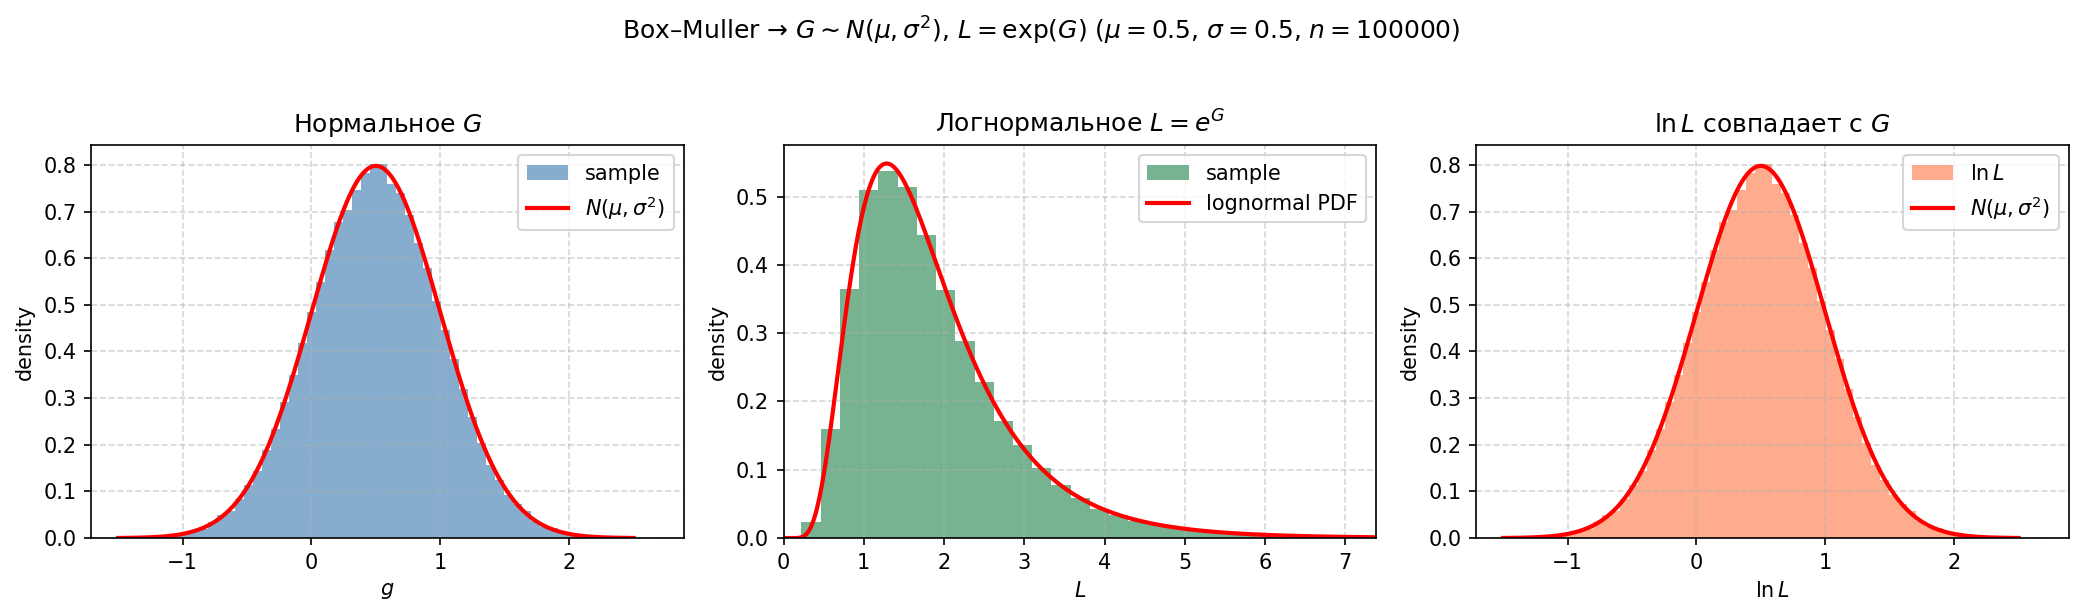
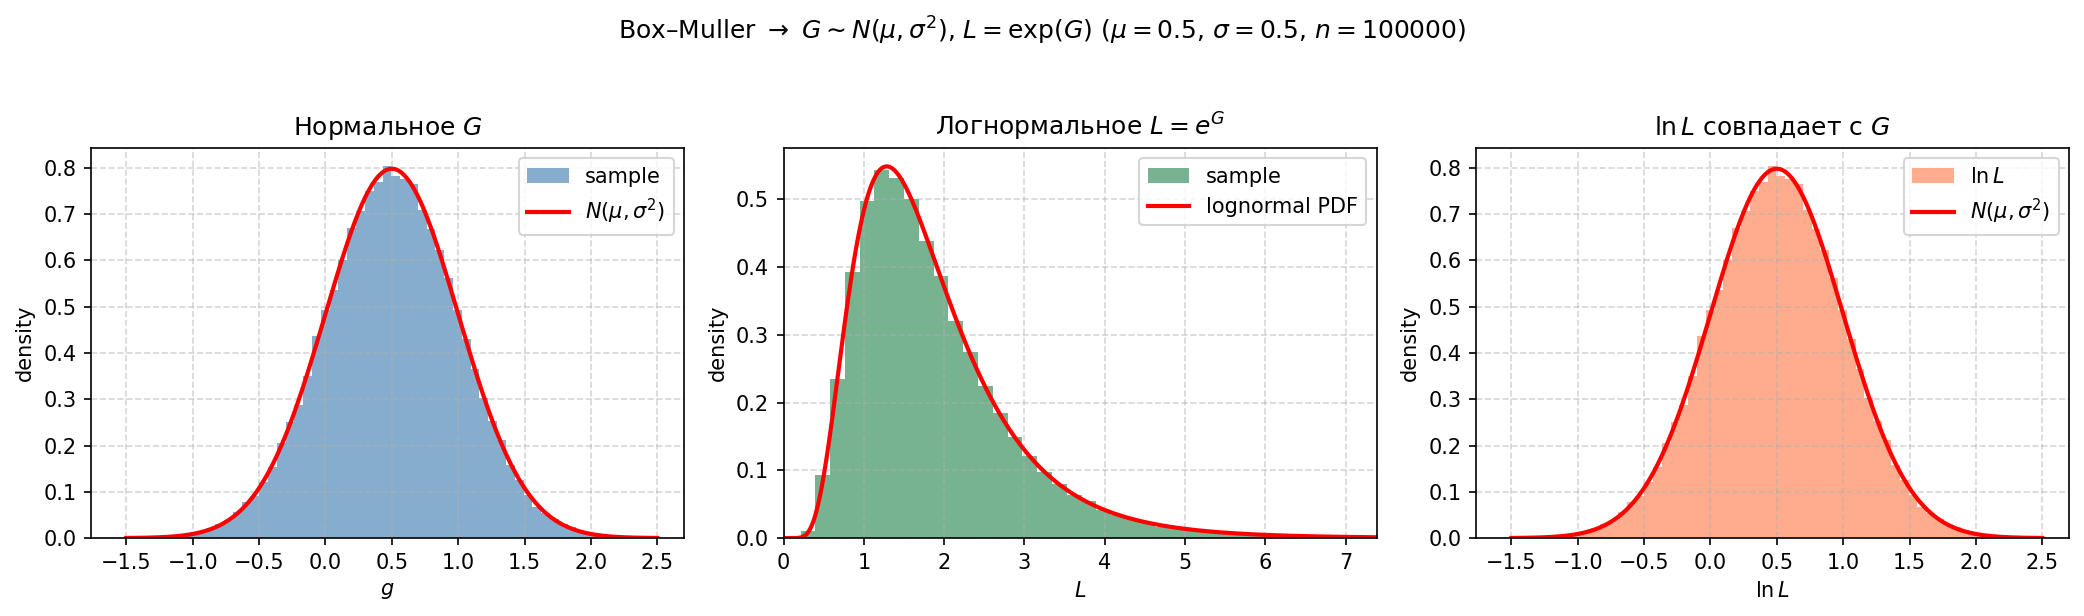
add logf

diff --git a/prac_hw/logf/test_logf.cpp b/prac_hw/logf/test_logf.cpp
@@ -1,0 +1,151 @@
+/*
+ * logf tests: vs std::log(double), errno/FE vs libm, ULP <= 4.
+ */
+
+#include <cerrno>
+#include <cfenv>
+#include <cmath>
+#include <cstdint>
+#include <cstdio>
+#include <limits>
+
+extern "C" float logf(float x);
+
+namespace {
+
+constexpr double MAX_ULP = 4.0;
+
+double ulp_error(float got, double ref) {
+    if (std::isnan(static_cast<double>(got)) && std::isnan(ref)) {
+        return 0.0;
+    }
+    const float rf = static_cast<float>(ref);
+    const float n =
+        std::nextafterf(rf, rf + 1e30f * (rf >= 0.f ? 1.f : -1.f));
+    const double spacing =
+        std::fabs(static_cast<double>(n) - static_cast<double>(rf));
+    if (spacing == 0.0) {
+        return 0.0;
+    }
+    return std::fabs(static_cast<double>(got) - ref) / spacing;
+}
+
+struct LibmRef {
+    double value;
+    int errno_after;
+    int fe_after;
+};
+
+LibmRef reference_log(double x) {
+    LibmRef r;
+    feclearexcept(FE_ALL_EXCEPT);
+    errno = 0;
+    volatile double xv = x;
+    r.value = std::log(xv);
+    r.errno_after = errno;
+    r.fe_after = fetestexcept(FE_ALL_EXCEPT);
+    return r;
+}
+
+bool same_fe_mask(int a, int b) {
+    const int mask = FE_DIVBYZERO | FE_INEXACT | FE_INVALID | FE_OVERFLOW |
+                     FE_UNDERFLOW;
+    return (a & mask) == (b & mask);
+}
+
+bool test_special(float x) {
+    LibmRef ref = reference_log(static_cast<double>(x));
+    feclearexcept(FE_ALL_EXCEPT);
+    errno = 0;
+    volatile float xv = x;
+    float y = logf(xv);
+    if (ref.errno_after != errno) {
+        return false;
+    }
+    if (!same_fe_mask(ref.fe_after, fetestexcept(FE_ALL_EXCEPT))) {
+        return false;
+    }
+    if (std::isnan(static_cast<double>(y)) && std::isnan(ref.value)) {
+        return true;
+    }
+    if (y == static_cast<float>(ref.value)) {
+        return true;
+    }
+    return ulp_error(y, ref.value) <= MAX_ULP;
+}
+
+bool test_interval(uint32_t lo, uint32_t hi, int n) {
+    if (lo > hi || n < 2) {
+        return false;
+    }
+    const uint64_t span = static_cast<uint64_t>(hi) - static_cast<uint64_t>(lo);
+    for (int i = 0; i < n; ++i) {
+        const uint32_t u =
+            lo + static_cast<uint32_t>((span * static_cast<uint64_t>(i)) /
+                                       static_cast<uint64_t>(n - 1));
+        union {
+            uint32_t bits;
+            float f;
+        } xv;
+        xv.bits = u;
+        const float x = xv.f;
+        if (!(x > 0.f) || !std::isfinite(x)) {
+            continue;
+        }
+        LibmRef ref = reference_log(static_cast<double>(x));
+        feclearexcept(FE_ALL_EXCEPT);
+        errno = 0;
+        const float y = logf(x);
+        (void)y;
+        if (errno != 0) {
+            return false;
+        }
+        if (ulp_error(y, ref.value) > MAX_ULP) {
+            return false;
+        }
+    }
+    return true;
+}
+
+}  // namespace
+
+int main() {
+    const float specials[] = {
+        0.f,
+        std::copysign(0.f, -1.f),
+        -1.f,
+        std::numeric_limits<float>::infinity(),
+        std::numeric_limits<float>::quiet_NaN(),
+    };
+    for (float x : specials) {
+        if (!test_special(x)) {
+            std::fputs("FAIL: special\n", stderr);
+            return 1;
+        }
+    }
+
+    const int pts = 1000;
+    if (!test_interval(1u, 0x007FFFFFu, pts)) {
+        std::fputs("FAIL: interval subnormal\n", stderr);
+        return 1;
+    }
+    const uint32_t fin_lo = 0x00800000u;
+    const uint32_t fin_hi = 0x7F7FFFFFu;
+    const uint64_t fspan = static_cast<uint64_t>(fin_hi - fin_lo);
+    const int nbuckets = 4;
+    for (int b = 0; b < nbuckets; ++b) {
+        const uint32_t blo =
+            fin_lo + static_cast<uint32_t>((fspan * static_cast<uint64_t>(b)) /
+                                           static_cast<uint64_t>(nbuckets));
+        const uint32_t bhi =
+            fin_lo + static_cast<uint32_t>((fspan * static_cast<uint64_t>(b + 1)) /
+                                           static_cast<uint64_t>(nbuckets));
+        if (!test_interval(blo, bhi, pts)) {
+            std::fputs("FAIL: interval normal\n", stderr);
+            return 1;
+        }
+    }
+
+    std::puts("PASS");
+    return 0;
+}

diff --git a/prac_hw/logf/logf.cpp b/prac_hw/logf/logf.cpp
@@ -1,0 +1,100 @@
+#include <cerrno>
+#include <cfenv>
+#include <cstdint>
+#include <limits>
+
+namespace {
+
+constexpr double LN2 =
+    0.693147180559945309417232121458176568075500134360255254120680009;
+
+// ln(r), r in [1, 2): ln(r) = 2*atanh(u), u = (r-1)/(r+1), u in [0, 1/3].
+double log_mantissa(double r) {
+    const double u = (r - 1.0) / (r + 1.0);
+    const double p = u * u;
+    // sum_{k=0}^{10} p^k/(2k+1)
+    double q = 1.0 / 21.0;
+    q = 1.0 / 19.0 + p * q;
+    q = 1.0 / 17.0 + p * q;
+    q = 1.0 / 15.0 + p * q;
+    q = 1.0 / 13.0 + p * q;
+    q = 1.0 / 11.0 + p * q;
+    q = 1.0 / 9.0 + p * q;
+    q = 1.0 / 7.0 + p * q;
+    q = 1.0 / 5.0 + p * q;
+    q = 1.0 / 3.0 + p * q;
+    q = 1.0 + p * q;
+    return 2.0 * (u * q);
+}
+
+float uint32_to_float(uint32_t bits) {
+    union {
+        uint32_t u;
+        float f;
+    } c;
+    c.u = bits;
+    return c.f;
+}
+
+uint32_t float_to_uint32(float x) {
+    union {
+        float f;
+        uint32_t u;
+    } c;
+    c.f = x;
+    return c.u;
+}
+
+}  // namespace
+
+extern "C" float logf(float x) {
+    const uint32_t ix = float_to_uint32(x);
+    // 0x7FFFFFFFu = 0111 1111 1111 1111 1111 1111 1111 1111
+    const uint32_t abs_ix = ix & 0x7FFFFFFFu; 
+
+    // log(0)=-INF,
+    if (abs_ix == 0u) {
+        errno = ERANGE;
+        feraiseexcept(FE_DIVBYZERO);
+        return -std::numeric_limits<float>::infinity();
+    }
+
+    // log(negative)=NaN 
+    // 0x7FFFFFFFu = 0111 1111 1111 1111 1111 1111 1111 1111
+    if (ix > 0x7FFFFFFFu) {
+        errno = EDOM;
+        feraiseexcept(FE_INVALID);
+        return std::numeric_limits<float>::quiet_NaN();
+    }
+
+    // 0x7F800000u = 0111 1111 1000 0000 0000 0000 0000 0000
+    if (abs_ix >= 0x7F800000u) { 
+        return x; // (abs_ix == 0x7F800000u) ? +INF : NaN
+    }
+
+    int e;
+    uint32_t mx;
+
+    // subnormal
+    // 0x00800000u = 0000 0000 1000 0000 0000 0000 0000 0000
+    if (abs_ix < 0x00800000u) {
+        mx = abs_ix;
+        e = -126;
+        while ((mx & 0x00800000u) == 0u) {
+            mx <<= 1;
+            --e;
+        }
+    } else {
+        e = static_cast<int>((abs_ix >> 23) & 0xFF) - 127;
+        mx = 0x00800000u | (abs_ix & 0x007FFFFFu);
+    }
+
+    // 0x3F800000u = 0011 1111 1000 0000 0000 0000 0000 0000 (1.0)
+    // 0x007FFFFFu = 0000 0000 0111 1111 1111 1111 1111 1111 
+    const uint32_t rbits = 0x3F800000u | (mx & 0x007FFFFFu);
+    const float r = uint32_to_float(rbits);
+
+    const double lnr = log_mantissa(static_cast<double>(r));
+    const double y = static_cast<double>(e) * LN2 + lnr;
+    return static_cast<float>(y);
+}

diff --git a/prac_hw/monte-carlo/monte_carlo.py b/prac_hw/monte-carlo/monte_carlo.py
@@ -8,7 +8,6 @@ SEED = 777
 
 
 def box_muller_standard_normals(n):
-    """Пара независимых N(0,1) из пары U(0,1); векторизовано для n величин."""
     m = (n + 1) // 2
     u1 = np.random.random(m)
     u2 = np.random.random(m)
@@ -75,7 +74,7 @@ def demo_normal_lognormal(n_sample=100_000, mu=0.5, sigma=0.5):
     axes[2].grid(True, ls="--", alpha=0.5)
 
     fig.suptitle(
-        rf"Box–Muller $\to$ $G\sim N(\mu,\sigma^2)$, $L=\exp(G)$ ($\mu={mu}$, $\sigma={sigma}$, $n={n_sample}$)",
+        rf"Box-Muller $\to$ $G\sim N(\mu,\sigma^2)$, $L=\exp(G)$ ($\mu={mu}$, $\sigma={sigma}$, $n={n_sample}$)",
         y=1.02,
     )
     plt.tight_layout()

diff --git a/prac_hw/logf/readme.md b/prac_hw/logf/readme.md
@@ -1,11 +1,32 @@
 
-# Реализация натурального логарифма
+# Реализация ln
 
-Требуется имплементировать float функции натурального логарифма ln с точностью <3.5 ulp в режиме округления `TO NEAREST` на С. Диапазон аргумента 2-126 S x < 2127. Решение должно иметь вид:
+Требуется имплементировать float функции натурального логарифма ln с точностью <3.5 ulp в режиме округления `TO NEAREST` на С. Диапазон аргумента $2^{-126} \leq x < 2^{127}$ (положительные нормализованные числа; для субнормалей реализация также определена). Решение должно иметь вид:
+
 ```C
 float logf (float x) {
     return res;
 }
 ```
+
 Решение должно быть корректным на всем указанном диапазоне аргументов. Использовать функции сторонних библиотек, например gnu libc, нельзя.
 
+## Описание решения
+
+Для $x > 0$ в формате IEEE-754 single разбиваем $x = 2^e \cdot r$, где $r \in [1, 2)$ - мантисса после нормализации, $e$ - целый порядок. Для субнормального $x$ сначала сдвигаем биты влево, пока не появится ведущая единица, поправляя $e$ (стандартная нормализация). Подствляя $x$: $ln x = e \cdot ln 2 + ln r$. Константа $ln 2$ задана как `double` с полной точностью для промежуточных вычислений.
+
+Для вычисления $ln r$ на $[1, 2)$ .** Подстановка $u = \frac{(r − 1)}{(r + 1)}$ переводит задачу к $ln r = 2 \cdot atanh(u)$. При $r ∈ [1, 2)$ имеем $u \in [0, 1/3)$, ряд для $atanh$ сходится быстро. Сумма $\sum_{k=0}^{10} \frac{p^k}{2k+1}$ при $p = u^2$ считается схемой Горнера (степень полинома достаточна, чтобы остаток ряда не влиял на округление результата до `float`).
+
+Скалярные выражения считаются в `double`, итог приводится к `float` (округление к ближайшему по правилам IEEE). Так достигается запас по сравнению с требованием **< 3.5 ulp** без вызова `libm`.
+
+## Особые случаи
+
+При $x \leq 0$ (включая $−0$): для нуля - $-\infty$ с `errno = ERANGE`, `FE_DIVBYZERO`; для отрицательного - NaN с `errno = EDOM`, `FE_INVALID` (как при вызове `log` из libm). Значения $+\infty$ и NaN возвращаются как есть, без установки `errno` на этих ветках.
+
+## Сборка
+
+Команда `make` в каталоге `logf` собирает объектный файл `logf.o` (исходник - C++ для удобства, точка входа объявлена как `extern "C" float logf(float)` для связки с кодом на C).
+
+## Тестирование
+
+Реализация представлена в файле [test_logf.cpp](test_logf.cpp). Эталон - `std::log(double)` (сборка с `-fno-builtin-log` и `-fno-builtin-logf`). Проверка: `errno` и маска `FE` как у libm на особых аргументах ($+0$, $−0$, $−1$, $+\infty$, NaN); на интервалах по битам положительных конечных чисел - $ULP \leq 4$ и `errno == 0` после `logf`. Интервалы: субнормали и 4 равных блока нормалей, 1000 точек на интервал. Запуск: `make test`.
